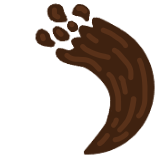
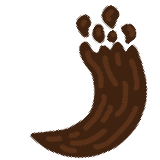
Gui tweaks

Changed region(s): [[0.1875, 0.0, 0.9688, 1.0]]

diff --git a/common/src/main/java/com/thewandererraven/ravencoffee/screen/BrewGuiDisplay.java b/common/src/main/java/com/thewandererraven/ravencoffee/screen/BrewGuiDisplay.java
@@ -73,7 +73,7 @@ public class BrewGuiDisplay {
                     guiGraphics.blit(RenderType::guiTextured, backgroundSprite, WIDGET_POS_X, WIDGET_POS_Y, 0, 0, WIDGET_WIDTH, WIDGET_HEIGHT, WIDGET_WIDTH, WIDGET_HEIGHT);
                     guiGraphics.blit(RenderType::guiTextured, effectIcon, WIDGET_POS_X + 4, WIDGET_POS_Y + 4, 0, 0, WIDGET_WIDTH - 8, WIDGET_HEIGHT - 8, WIDGET_WIDTH - 8, WIDGET_HEIGHT - 8);
                     if(i < this.activeEffectsDurationSeconds.size())
-                        guiGraphics.drawString(mc.font, this.activeEffectsDurationSeconds.get(i).toString(), ZONE_STARTING_POS_X + 3, ZONE_STARTING_POS_Y + 25, 0xFFFFFF, true);
+                        guiGraphics.drawString(mc.font, this.activeEffectsDurationSeconds.get(i).toString(), WIDGET_POS_X + 3, ZONE_STARTING_POS_Y + 25, 0xFFFFFF, true);
                 }
 
                 for (int i = 0; i < this.inactiveEffectIcons.size(); i++) {
@@ -90,7 +90,7 @@ public class BrewGuiDisplay {
                 }
 
                 String remainingDuration = String.format("Total: %s", BrewEffectsUtils.getDisplayableDurationFromSeconds(this.brewTotalDurationSeconds));
-                guiGraphics.drawString(mc.font, remainingDuration, ZONE_STARTING_POS_X + 3, ZONE_STARTING_POS_Y + 32, 0xFFFFFF, true);
+                guiGraphics.drawString(mc.font, remainingDuration, ZONE_STARTING_POS_X + 3, ZONE_STARTING_POS_Y + 36, 0xFFFFFF, true);
             }
 
             int CAFFEINE_BAR_WIDTH = 32;
